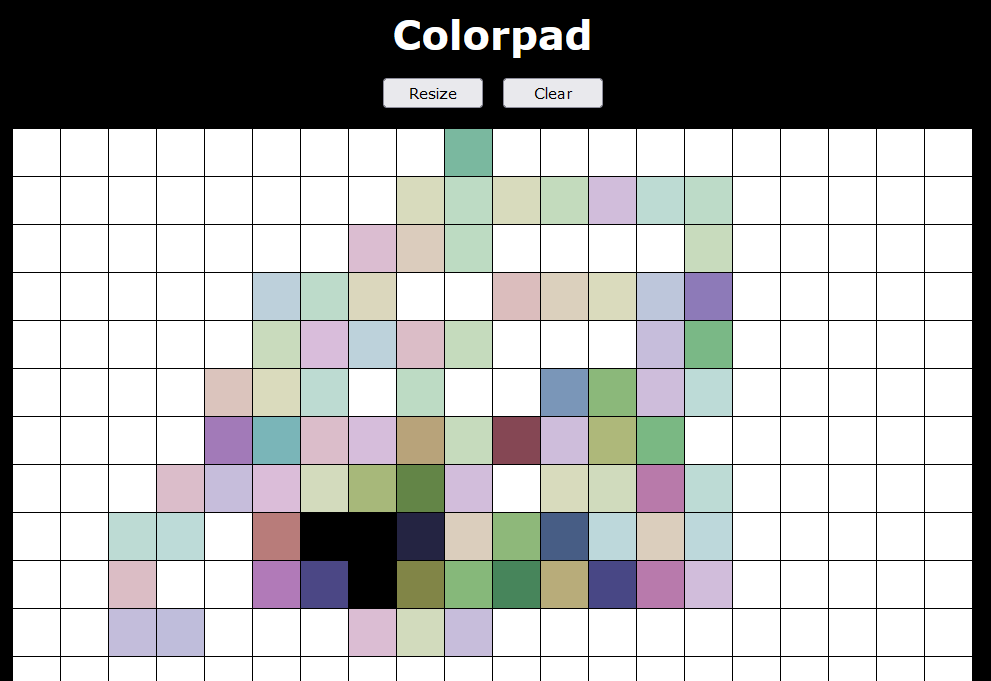
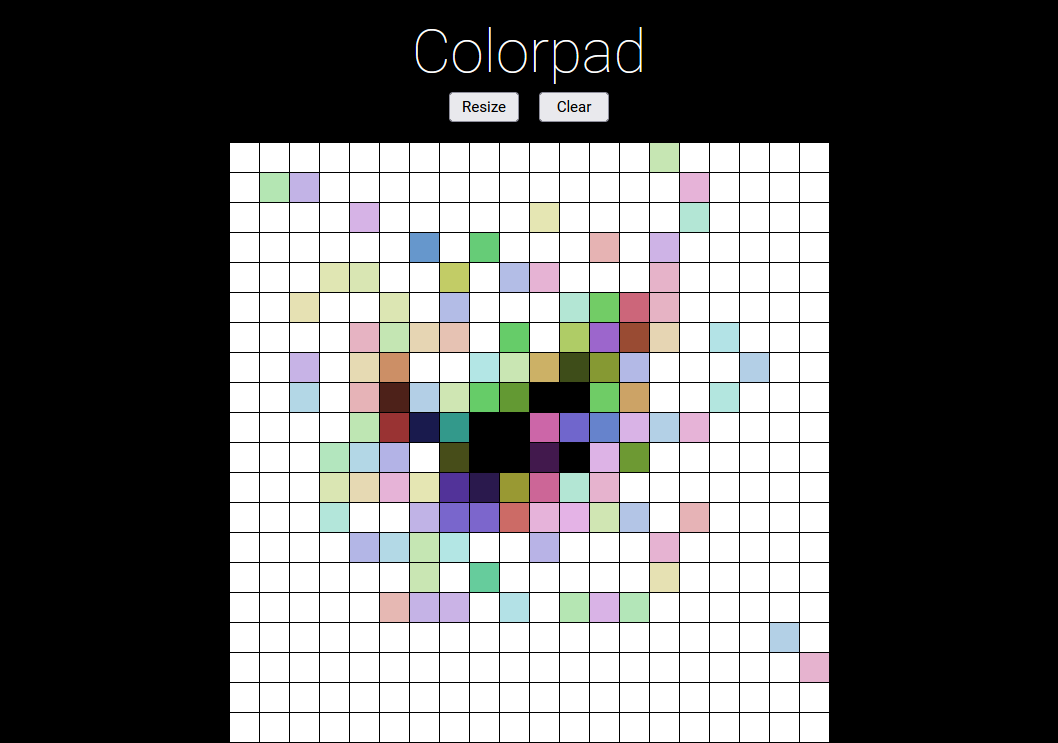
Updated visuals
Changed font and decreased grid size

diff --git a/script.js b/script.js
@@ -1,5 +1,32 @@
-const gridBox = document.querySelector('.gridbox');
 let number;
+const gridBox = document.querySelector('.gridbox');
+const resizeBtn = document.querySelector('#resizeBtn');
+const clearBtn = document.querySelector('#clearBtn');
+
+
+function loadGrid(num){
+  gridBox.replaceChildren(); // Clear grid
+  gridBox.style.gridTemplateColumns = 'repeat('+num+',' +600/num+'px)';
+  gridBox.style.gridTemplateRows = 'repeat('+num+',' +600/num+'px)';
+  for (i = 0; i < num*num; i++){
+    let temp = document.createElement('div');
+    temp.classList.add('gridElement');
+    temp.addEventListener('mouseover', (e) => e.target.style.backgroundColor = colorTune(getComputedStyle(e.target).backgroundColor));
+    gridBox.appendChild(temp);
+  };
+  number = num;
+};
+
+
+function gridCount(){
+  number = parseInt(prompt("Enter grid width (Maximum of 50):"));
+  if (number == null || number == "" || number >50){
+    number = 50;
+  } else if (number < 1){
+    number = 1;
+  };
+  loadGrid(number);
+};
 
 
 function rgb2hex(rgb) {
@@ -13,7 +40,6 @@ function rgb2hex(rgb) {
 
 function HexToHSL(hex) {
   var result = /^#?([a-f\d]{2})([a-f\d]{2})([a-f\d]{2})$/i.exec(hex);
-
   var r = parseInt(result[1], 16);
   var g = parseInt(result[2], 16);
   var b = parseInt(result[3], 16);
@@ -28,6 +54,7 @@ function HexToHSL(hex) {
   return l;
 }
 
+
 function colorTune(target){
   let l = HexToHSL(rgb2hex(target));
   h = Math.floor(Math.random() * 360);
@@ -35,36 +62,10 @@ function colorTune(target){
   if (l < 0){
     l = 0;
   };
-  return 'hsl('+h+',30%,'+l+'%)';
+  return 'hsl('+h+',50%,'+l+'%)';
 };
 
-function loadGrid(num){
-  gridBox.replaceChildren(); // Clear grid
-  gridBox.style.gridTemplateColumns = 'repeat('+num+',' +960/num+'px)';
-  gridBox.style.gridTemplateRows = 'repeat('+num+',' +960/num+'px)';
-  for (i = 0; i < num*num; i++){
-    let temp = document.createElement('div');
-    temp.classList.add('gridElement');
-    temp.addEventListener('mouseover', (e) => e.target.style.backgroundColor = colorTune(getComputedStyle(e.target).backgroundColor));
-    gridBox.appendChild(temp);
-  };
-  number = num;
-};
 
 loadGrid(20);
-
-const resizeBtn = document.querySelector('#resizeBtn');
 resizeBtn.addEventListener('click', gridCount);
-
-function gridCount(){
-  number = parseInt(prompt("Enter grid width (Maximum of 100):"));
-  if (number == null || number == "" || number >100){
-    number = 100;
-  } else if (number < 1){
-    number = 1;
-  };
-  loadGrid(number);
-};
-
-const clearBtn = document.querySelector('#clearBtn');
 clearBtn.addEventListener('click', () => loadGrid(number));

diff --git a/style.css b/style.css
@@ -4,24 +4,25 @@ body {
 }
 
 h1 {
-    margin: 20px;
-    font-size: 40px;
+    margin: 20px 0px 0px 0px;
+    font-size: 60px;
     color: white;
-    font-family: Verdana, Geneva, Tahoma, sans-serif;
+    font-weight: 250;
+    font-family: Roboto, Verdana, Geneva, Tahoma, sans-serif;
 }
 
 .btns {
     padding: 4px;
-    width: 100px;
+    width: 70px;
     font-size: 15px;
-    font-family: Verdana, Geneva, Tahoma, sans-serif;
+    font-family: Roboto, Verdana, Geneva, Tahoma, sans-serif;
 }
 
 .top {
     display: flex;
     justify-content: center;
     gap: 20px;
-    margin: 20px;
+    margin: 5px 20px 20px;
     color: white;
 }
 
@@ -33,6 +34,7 @@ h1 {
     border-bottom: 1px solid #000000;
     max-width: 960px;
     margin: 10px auto;
+    justify-content: center;
 }
 
 .gridElement {
